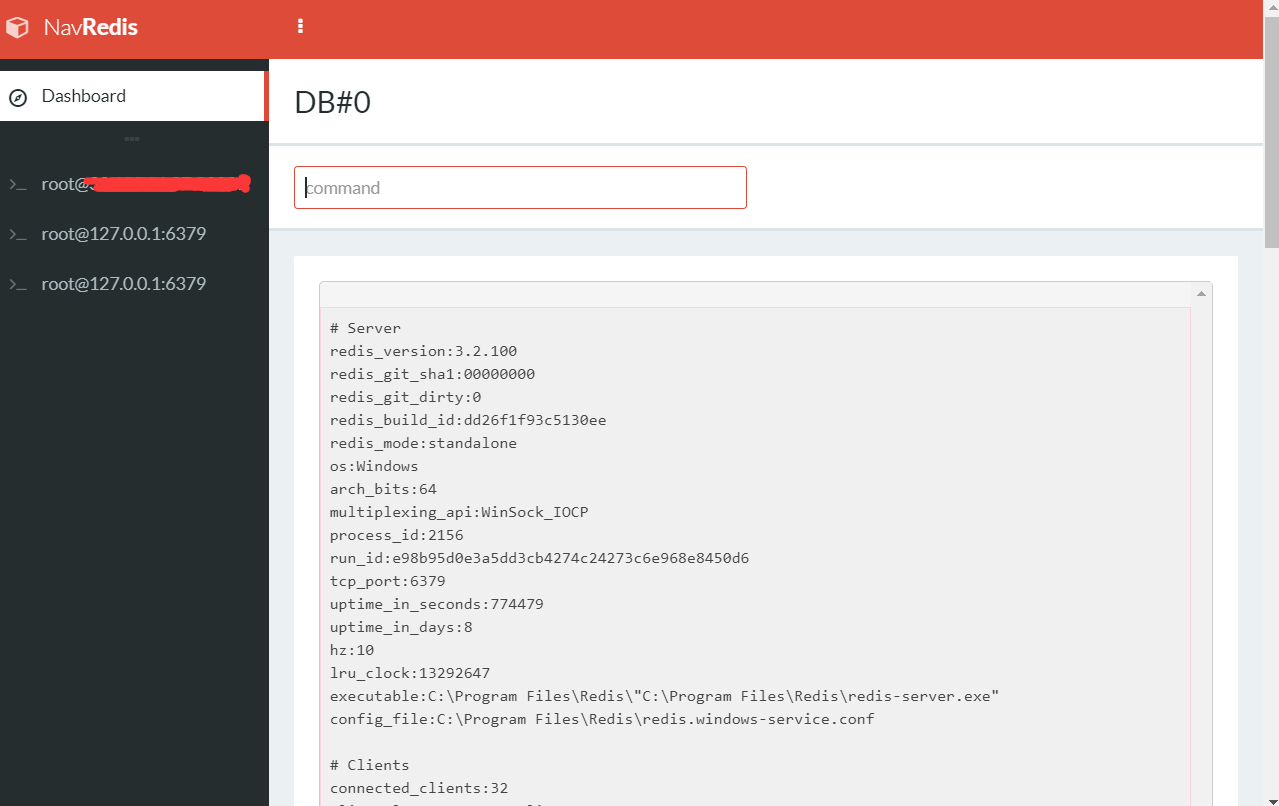
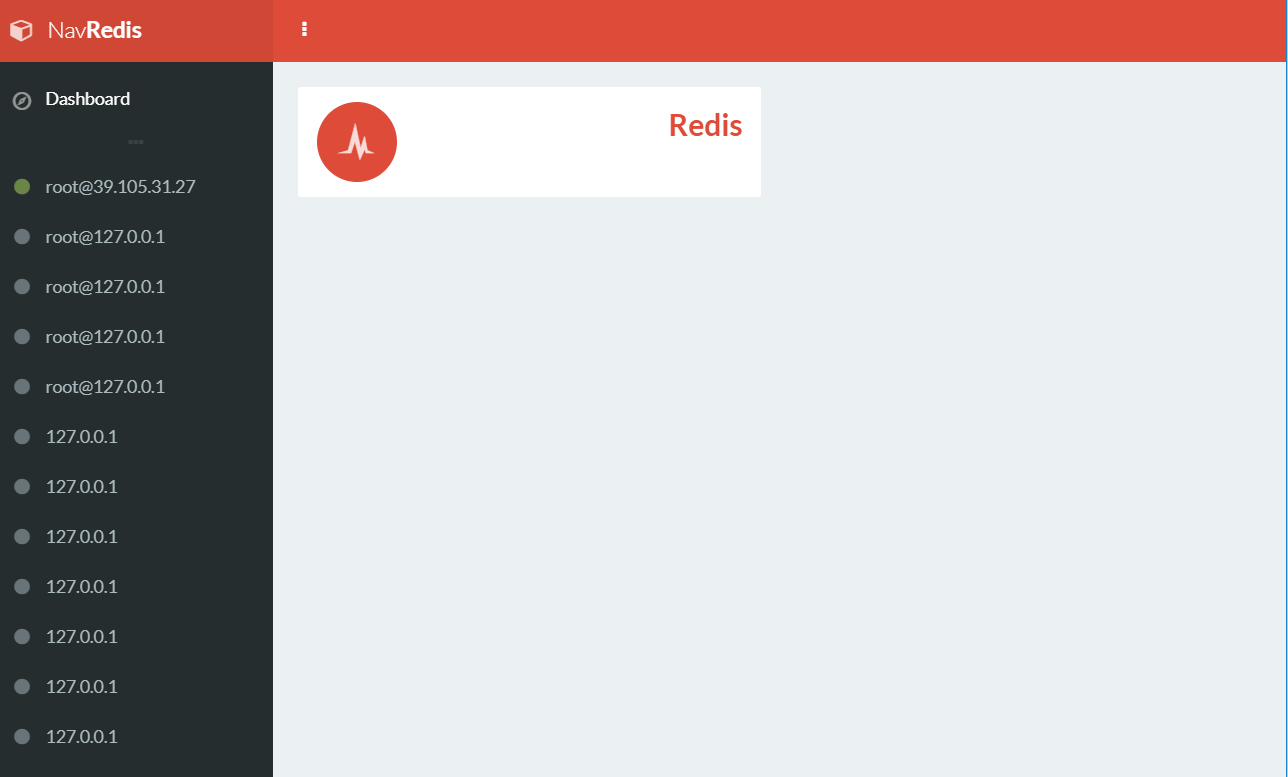
增加链接状态

diff --git a/src/index.js b/src/index.js
@@ -8,9 +8,20 @@ window.addEventListener('contextmenu', (e) => {
     menu.append(new MenuItem({label: 'disconnect', click() { console.log('关闭session') }}))
 }, false)
 
-$("#command").change(()=>{
-    console.log($("#command").val())
-    redis.send_command($("#command").val().split(" ")[0],$("#command").val().split(" ").slice(1),function(e,r){
+
+$("#command").keydown((e)=>{
+    
+    e = event ? event :(window.event ? window.event : null); 
+    if(e.keyCode==13){ 
+    }else{
+        return;
+    }
+
+    command=$("#command").val().split(" ")[0];
+    argv=$("#command").val().split(" ").slice(1);
+
+
+    currentSession.redis.send_command(command,argv,function(e,r){
        console.log(e);
        if(e==null){
         $("#res").text(r);   
@@ -28,39 +39,53 @@ $("#command").change(()=>{
 })
 
 connectKey=JSON.parse(window.localStorage.connectKey==undefined?'[]':window.localStorage.connectKey);
+currentSession={};
 
-
-
+function setting(i){
+    alert('修改'+i)
+}
 
 function connect(i){
+    $(".session").removeClass("active");
+    $("#session"+i).addClass("active");
     if(i==-1){
         $('#page-content-redis').hide();
-        $('#page-content-dashboard').hide();
-    }else{
-        $('#page-content-redis').show();
         $('#page-content-dashboard').show();
+        return;
+    }else{
+        $('#page-content-dashboard').hide();
+        $('#page-content-redis').show();
+    }
+    if(connectKey[i].redis!=undefined){
+        return
     }
     $('#db').text('DB#0');
     connectMeta=connectKey[i];
-    
     var redis = require("redis"),
     client = redis.createClient(connectMeta);
     client.on("error", function (err) {
-        alert(err)
+        $("#session_status_"+i).addClass('text-danger')
     });
     client.on("connect", function (err) {
+        $("#session_status_"+i).addClass('text-success')
         client.send_command("info",null,function(e,r){
-
             $("#res").text(r);           
         })
     });
-    window.redis=client
+    client.on("disconnect", function (err) {
+        $("#session_status_"+i).addClass('text-success')
+        client.send_command("info",null,function(e,r){
+            $("#res").text(r);           
+        })
+    });
+    connectKey[i].redis=client
+    window.currentSession=connectKey[i];
 }
 
 $().ready(()=>{
     var connectList=$('#connectList');
     var defaultString=`<li>
-    <a href="javascript:connect(-1)" class="active"><i class=" gi gi-compass sidebar-nav-icon"></i><span class="sidebar-nav-mini-hide">Dashboard</span></a>
+    <a href="javascript:connect(-1)"><i class=" gi gi-compass sidebar-nav-icon"></i><span class="sidebar-nav-mini-hide">Dashboard</span></a>
 </li>
 <li class="sidebar-separator">
     <i class="fa fa-ellipsis-h"></i>
@@ -68,9 +93,11 @@ $().ready(()=>{
     // connectList=window.localStorage.connectKey;
     connectKey=JSON.parse(window.localStorage.connectKey==undefined?'[]':window.localStorage.connectKey);
     connectKey.forEach((e,i)=>{
-        defaultString+=`<li>
-        <a href="javascript:connect(${i})" ><i class="fa fa-terminal sidebar-nav-icon"></i><span class="sidebar-nav-mini-hide" data-id="i">${e.user+"@"+e.host+":"+e.port}</span></a>
-    </li>`
+        if(e.name==undefined){
+            defaultString+=`<li class="session" id="session${i}"><a href="javascript:connect(${i})" ><i id="session_status_${i}" class="fa fa-circle sidebar-nav-icon"></i><span class="sidebar-nav-mini-hide" data-id="i">${e.user+"@"+e.host}<i  click="setting(${i})" class="fa fa-gear session_setting"></i></span></a></li>`
+        }else{
+            defaultString+=`<li class="session" id="session${i}"><a href="javascript:connect(${i})" ><i id="session_status_${i}" class="fa fa-circle sidebar-nav-icon"></i><span class="sidebar-nav-mini-hide" data-id="i">${e.name} <i  click="setting(${i})" class="fa fa-gear session_setting"></i></span></a></li>`
+        }
     })
 
  connectList.html(defaultString)    

diff --git a/index.html b/index.html
@@ -32,6 +32,8 @@
         <!-- The main stylesheet of this template. All Bootstrap overwrites are defined in here -->
         <link rel="stylesheet" href="src/assets/css/main.css">
 
+        <link rel="stylesheet" href="src/index.css">
+
         <!-- Include a specific file here from css/themes/ folder to alter the default theme of the template -->
 
         <!-- The themes stylesheet of this template (for using specific theme color in individual elements - must included last) -->
@@ -44,7 +46,7 @@
         <script src="src/assets/highlightjs/highlight.js"></script>
         <script>hljs.initHighlightingOnLoad();</script>
 
-
+        <script>var pjson = require('./package.json');</script>
         <!-- Modernizr (browser feature detection library) -->
         <script src="src/assets/js/vendor/modernizr-3.3.1.min.js"></script>
     </head>
@@ -66,7 +68,7 @@
                     <div class="preloader-spinner themed-background hidden-lt-ie10"></div>
 
                     <!-- Text for IE9 -->
-                    <h3 class="text-primary visible-lt-ie10"><strong>加载中..</strong></h3>
+                    <h3 class="text-primary visible-lt-ie10"><strong>loading..</strong></h3>
                 </div>
             </div>
             <!-- END Preloader -->
@@ -117,12 +119,15 @@
                 <div id="sidebar">
                     <!-- Sidebar Brand -->
                     <div id="sidebar-brand" class="themed-background">
-                        <a href="javascript:;" id="NavRedis" class="sidebar-title">
+                        <a href="javascript:;"  class="sidebar-title">
                             <i class="fa fa-cube"></i> <span class="sidebar-nav-mini-hide">Nav<strong>Redis</strong></span>
                         </a>
                     </div>
                     <!-- END Sidebar Brand -->
-
+                    <ul class="nav navbar-nav-custom pull-right">
+                        <li>@</li>
+                        <li></li>
+                    </ul>
                     <!-- Wrapper for scrolling functionality -->
                     <div id="sidebar-scroll">
                         <!-- Sidebar Content -->
@@ -220,6 +225,23 @@
                                 <!-- </pre> -->
                                 <!-- END Example Content -->
                             </div>
+                        </div>
+                        <div id="page-content-dashboard">
+                                <div class="row">
+                                    <div class="col-sm-6 col-lg-3">
+                                        <a href="login.html" class="widget">
+                                            <div class="widget-content widget-content-mini text-right clearfix">
+                                                <div class="widget-icon pull-left themed-background">
+                                                    <i class="gi gi-cardio text-light-op"></i>
+                                                </div>
+                                                <h2 class="widget-heading h3">
+                                                    <strong><span data-toggle="counter" data-to="2835">Redis</span></strong>
+                                                </h2>
+                                                <span class="text-muted"></span>
+                                            </div>
+                                        </a>
+                                    </div>
+                                </div>
                         </div>
                         <!-- END Example Block -->
                     </div>

diff --git a/login.html b/login.html
@@ -52,12 +52,17 @@
             <div class="block animation-fadeInQuickInv">
                 <!-- Login Title -->
                 <div class="block-title">
-                    <h2>Connect</h2>
+                    <h2>New Session</h2>
                 </div>
                 <!-- END Login Title -->
 
                 <!-- Login Form -->
                 <form id="form-login" action="index.html" method="post" class="form-horizontal">
+                    <div class="form-group">
+                            <div class="col-xs-12">
+                                <input type="text" id="name" name="name" class="form-control" placeholder="name" value="127.0.0.1">
+                            </div>
+                    </div>
                     <div class="form-group">
                         <div class="col-xs-12">
                             <input type="text" id="hostname" name="hostname" class="form-control" placeholder="hostname" value="127.0.0.1">
@@ -87,7 +92,7 @@
                             Remember Me?
                         </div>
                         <div class="col-xs-4 text-right">
-                            <button type="submit" class="btn btn-effect-ripple btn-sm btn-primary"><i class="fa fa-check"></i> Connect...</button>
+                            <button type="submit" class="btn btn-effect-ripple btn-sm btn-primary"><i class="fa fa-check"></i>Save</button>
                         </div>
                     </div>
                 </form>

diff --git a/src/assets/js/pages/readyLogin.js b/src/assets/js/pages/readyLogin.js
@@ -11,6 +11,7 @@ var ReadyLogin = function() {
             $('#form-login').submit(function(e){
                 key= $("#username").val()+"@"+$('#hostname').val()+":"+$('#port').val();
                 keyspace={
+                        name:$('#name').val(),
                         host:$('#hostname').val(),
                         port:$('#port').val(),
                         user:$("#username").val(),
